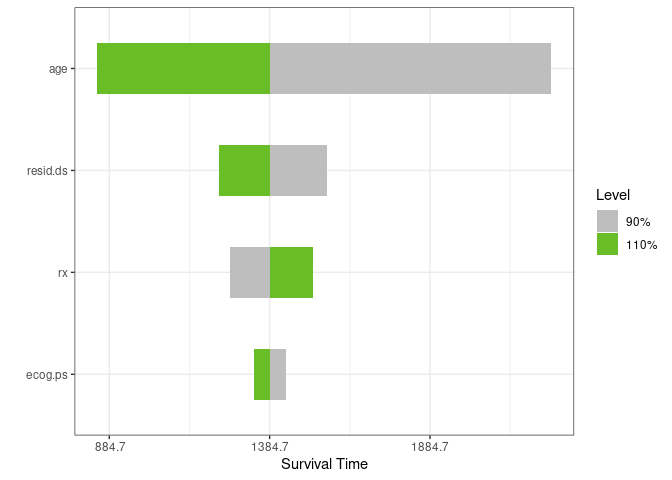
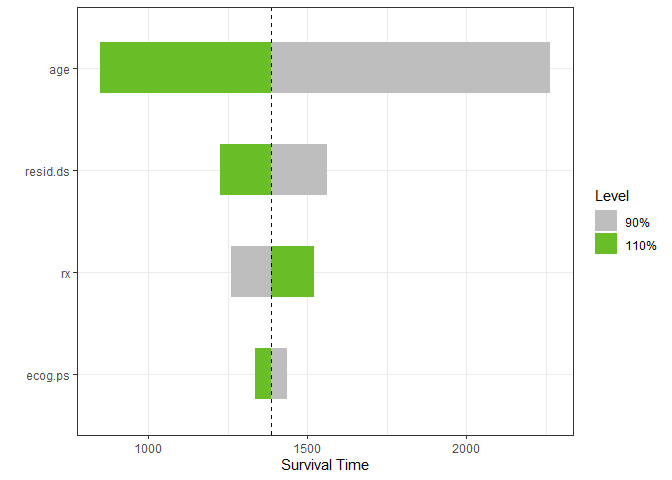
Updated readme, plot axis, and news

diff --git a/NEWS.md b/NEWS.md
@@ -1,6 +1,7 @@
 # version 0.2.0 (2024-07-30)
 
 - bug report from @ghobro (https://github.com/ghobro) for weighted models
+- improved x-axis scales
 
 # version 0.1.4 (2024-01-18)
 
